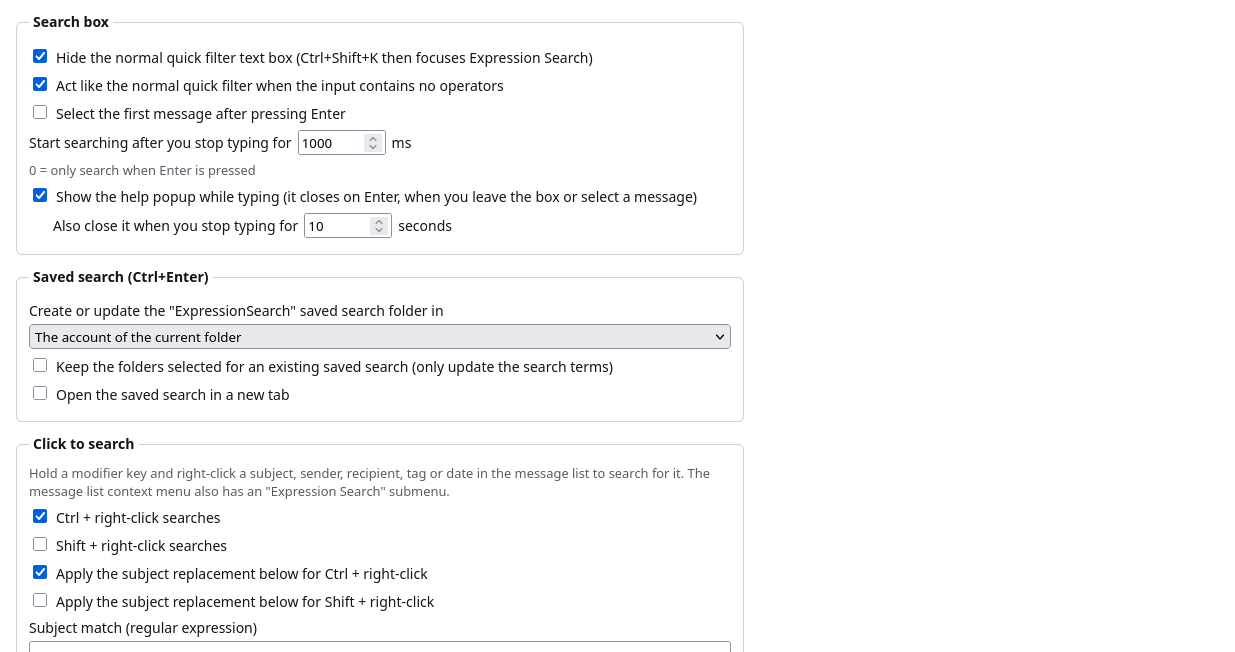
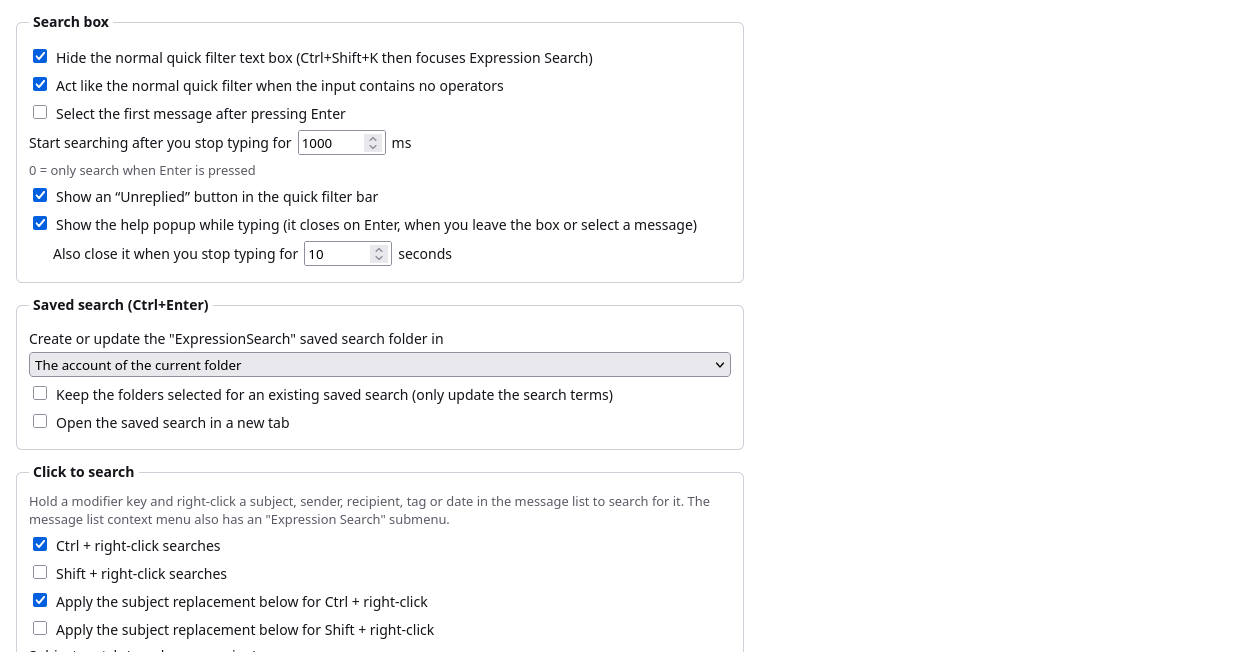
Add is:unreplied, an Unreplied button and the account: operator (5.1.0)
- is:unreplied / status:unreplied (and is:unstarred / is:unflagged).
- Unreplied toggle in the quick filter bar plus its entry in the quick filter
  menu of narrow windows; own quick filter definition, follows 'sticky';
  can be hidden in the options.
- account: / acc: operator and Account custom search criterion: account name
  or one of its addresses contains the text.
- Options page marks itself ready; the options test waits for it (fixes a
  race seen on slower CI runners).

Closes #5
Closes #6

Changed region(s): [[0.0, 0.2761, 0.5538, 0.6135], [0.0, 0.6442, 0.5846, 0.8896], [0.0308, 0.9202, 0.3385, 1.0]]

diff --git a/src/api/ExpressionSearch/implementation.js b/src/api/ExpressionSearch/implementation.js
@@ -45,6 +45,10 @@ ChromeUtils.defineESModuleGetters(lazy, {
 });
 
 const FILTER_NAME = "expressionSearchReloaded";
+const UNREPLIED_FILTER = "expressionSearchReloadedUnreplied";
+const UNREPLIED_BUTTON_ID = "esr-qfb-unreplied";
+const UNREPLIED_MENUITEM_ID = "esr-qfb-menu-unreplied";
+const OUR_FILTERS = [FILTER_NAME, UNREPLIED_FILTER];
 const CONTAINER_ID = "esr-search-container";
 const INPUT_ID = "esr-search-textbox";
 const HELP_ID = "esr-search-help";
@@ -215,6 +219,7 @@ class Pane {
       return;
     }
     try {
+      this.removeUnrepliedButton(false);
       this.box?.remove();
       this.normal?.classList.remove("esr-normal-hidden");
       this.win.windowUtils.removeSheetUsingURIString(
@@ -227,9 +232,11 @@ class Pane {
     // Drop our state from the quick filter so that nothing refers to the
     // filter definition after it has been removed.
     const qfb = this.qfb;
-    if (qfb?._filterer && FILTER_NAME in qfb._filterer.filterValues) {
+    if (qfb?._filterer && OUR_FILTERS.some(name => name in qfb._filterer.filterValues)) {
       const values = { ...qfb._filterer.filterValues };
-      delete values[FILTER_NAME];
+      for (const name of OUR_FILTERS) {
+        delete values[name];
+      }
       qfb._filterer = new this.win.QuickFilterState(null, {
         filterValues: values,
         visible: qfb._filterer.visible,
@@ -254,6 +261,88 @@ class Pane {
     if (!o.showHelp) {
       this.help.hidden = true;
     }
+    if (o.showUnrepliedButton) {
+      this.addUnrepliedButton();
+    } else {
+      this.removeUnrepliedButton(true);
+    }
+  }
+
+  // ---------------------------------------------------------------------------
+  // "Unreplied" quick filter button (and its entry in the quick filter menu
+  // that replaces the buttons in narrow windows)
+
+  addUnrepliedButton() {
+    const doc = this.doc;
+    const group = doc.querySelector("#quickFilterBarContainer .quickFilterButtons");
+    if (this.unrepliedButton || !group) {
+      return;
+    }
+    const C = this.controller;
+    const button = doc.createElement("button", { is: "toggle-button" });
+    button.id = UNREPLIED_BUTTON_ID;
+    button.className = "button collapsible-button icon-button check-button";
+    button.title = C.localize("unrepliedButtonTooltip");
+    const label = doc.createElement("span");
+    label.textContent = C.localize("unrepliedButtonLabel");
+    button.append(label);
+    group.append(button);
+    this.unrepliedButton = button;
+
+    const menu = doc.getElementById("quickFilterButtonsContext");
+    if (menu) {
+      const item = doc.createXULElement("menuitem");
+      item.id = UNREPLIED_MENUITEM_ID;
+      item.className = "quick-filter-menuitem";
+      item.setAttribute("type", "checkbox");
+      item.setAttribute("closemenu", "none");
+      // Thunderbird checks the item when this filter has a value.
+      item.setAttribute("value", UNREPLIED_FILTER);
+      item.setAttribute("label", C.localize("unrepliedButtonLabel"));
+      menu.append(item);
+      this.unrepliedMenuItem = item;
+    }
+
+    const set = on => {
+      const qfb = this.qfb;
+      if (!qfb) {
+        return;
+      }
+      qfb.filterer.setFilterValue(UNREPLIED_FILTER, on ? true : null);
+      button.pressed = on;
+      qfb.deferredUpdateSearch();
+    };
+    // toggle-button flips `pressed` in its own (earlier) click listener.
+    this.unrepliedListeners = [[button, "click", () => set(button.pressed)]];
+    if (this.unrepliedMenuItem) {
+      const item = this.unrepliedMenuItem;
+      this.unrepliedListeners.push([item, "command", () => set(item.hasAttribute("checked"))]);
+    }
+    for (const [target, type, handler] of this.unrepliedListeners) {
+      target.addEventListener(type, handler);
+    }
+    button.pressed = !!this.qfb?._filterer?.filterValues?.[UNREPLIED_FILTER];
+    this.qfb?.updateRovingTab?.();
+  }
+
+  removeUnrepliedButton(updateSearch) {
+    for (const [target, type, handler] of this.unrepliedListeners ?? []) {
+      target.removeEventListener(type, handler);
+    }
+    this.unrepliedListeners = [];
+    if (!this.unrepliedButton) {
+      return;
+    }
+    this.unrepliedButton.remove();
+    this.unrepliedMenuItem?.remove();
+    this.unrepliedButton = null;
+    this.unrepliedMenuItem = null;
+    const qfb = this.qfb;
+    if (updateSearch && qfb?._filterer?.filterValues?.[UNREPLIED_FILTER]) {
+      qfb.filterer.setFilterValue(UNREPLIED_FILTER, null);
+      qfb.updateSearch();
+    }
+    qfb?.updateRovingTab?.();
   }
 
   // ---------------------------------------------------------------------------
@@ -673,10 +762,13 @@ class Controller {
     }
 
     const QFM = lazy.QuickFilterManager;
-    if (QFM.filterDefsByName[FILTER_NAME]) {
-      QFM.killFilter(FILTER_NAME);
+    for (const name of OUR_FILTERS) {
+      if (QFM.filterDefsByName[name]) {
+        QFM.killFilter(name);
+      }
     }
     QFM.defineFilter(this.createFilterDefinition());
+    QFM.defineFilter(this.createUnrepliedFilterDefinition());
 
     ExtensionSupport.registerWindowListener(this.windowListenerId, {
       chromeURLs: [MESSENGER_URL],
@@ -704,8 +796,10 @@ class Controller {
       this.detachPane(win, true);
     }
     const QFM = lazy.QuickFilterManager;
-    if (QFM.filterDefsByName[FILTER_NAME]) {
-      QFM.killFilter(FILTER_NAME);
+    for (const name of OUR_FILTERS) {
+      if (QFM.filterDefsByName[name]) {
+        QFM.killFilter(name);
+      }
     }
     if (QFM.textBoxDomId == INPUT_ID) {
       QFM.textBoxDomId = NORMAL_TEXTBOX_ID;
@@ -808,6 +902,27 @@ class Controller {
 
   // ---------------------------------------------------------------------------
   // Quick filter integration
+
+  /** "Unreplied" button: messages without the Replied flag. */
+  createUnrepliedFilterDefinition() {
+    return {
+      name: UNREPLIED_FILTER,
+      domId: UNREPLIED_BUTTON_ID,
+      appendTerms: (termCreator, terms) => {
+        this.buildTerms(
+          termCreator,
+          [[{ attrib: "MsgStatus", op: "Isnt", valueType: "status", value: "Replied" }]],
+          terms
+        );
+      },
+      // Kept on folder change only if "sticky" is active, like Unread.
+      propagateState: (old, sticky) => (sticky && old ? true : null),
+      onCommand: state => [state, false],
+      reflectInDOM: (node, value) => {
+        node.pressed = !!value;
+      },
+    };
+  }
 
   createFilterDefinition() {
     return {

diff --git a/src/help/help.html b/src/help/help.html
@@ -62,6 +62,7 @@
     <tr><td><code>tonocc</code></td><td>tn</td><td>To (not Cc) contains the text</td><td><code>tn:bill</code></td></tr>
     <tr><td><code>cc</code></td><td>c</td><td>Cc contains the text</td><td><code>cc:tom</code></td></tr>
     <tr><td><code>bcc</code></td><td>bc</td><td>Bcc contains the text (only known for messages you sent)</td><td><code>bcc:riddle</code></td></tr>
+    <tr><td><code>account</code></td><td>acc</td><td>the account name or one of its e-mail addresses contains the text; useful in unified folders and saved searches over several accounts</td><td><code>acc:work</code>, <code>-acc:private</code></td></tr>
     <tr><td><code>fromto</code></td><td>ft, ftc, fromtocc, alladdresses</td><td>From, To, Cc or Bcc contains the text</td><td><code>ft:tom</code></td></tr>
     <tr><td><code>only</code></td><td>o</td><td>the given people are the only To recipients; separate several with commas</td><td><code>only:tom</code>, <code>only:(tom,jerry)</code></td></tr>
     <tr><td><code>subject</code></td><td>s</td><td>Subject contains the text</td><td><code>s:electric bill</code></td></tr>
@@ -75,7 +76,7 @@
     <tr><td><code>headerre</code></td><td>h, hr</td><td>a header exists / matches a regular expression; see <a href="#limitations">limitations</a></td><td><code>h:list-id</code>, <code>h:List-Id=/all-test/i</code></td></tr>
     <tr><td><code>attachment</code></td><td>a</td><td><code>yes</code>/<code>y</code>/<code>1</code>: has an attachment, <code>no</code>/<code>n</code>/<code>0</code>: has none; anything else works like <code>filename</code></td><td><code>a:yes</code>, <code>a:pdf</code></td></tr>
     <tr><td><code>filename</code></td><td>fi, fn, file</td><td>an attachment name or MIME type contains the text (offline messages only)</td><td><code>fi:invoice.pdf</code>, <code>fn:msword</code></td></tr>
-    <tr><td><code>status</code></td><td>is, i, u</td><td>status: read, unread, replied, forwarded, starred (marked, flagged), new, deleted, attachment</td><td><code>is:unread</code>, <code>-is:replied</code></td></tr>
+    <tr><td><code>status</code></td><td>is, i, u</td><td>status: read, unread, replied, unreplied, forwarded, starred (marked, flagged), unstarred, new, deleted, attachment</td><td><code>is:unread</code>, <code>is:unreplied</code></td></tr>
     <tr><td><code>tag</code></td><td>l, label</td><td>tag name contains the text, or the <var>n</var>-th tag (<code>#2</code>); <code>na</code> means no tag</td><td><code>tag:important</code>, <code>tag:na</code></td></tr>
     <tr><td><code>before</code> / <code>after</code></td><td>be / af</td><td>sent before/after a day, or a time of day on any day</td><td><code>af:2024/03/01</code>, <code>af:(9:00 -17:00)</code></td></tr>
     <tr><td><code>date</code></td><td>d</td><td>the date (<code>yyyy/mm/dd hh:mm:ss</code> or your locale's format) contains the text</td><td><code>d:2024/03</code>, <code>d:" 13:"</code></td></tr>
@@ -104,7 +105,8 @@
   <li>Words without operators form a phrase: <code>s:electric bill</code> searches for “electric bill”.</li>
   <li>Double quotes make text literal: <code>s:"this or that"</code>.</li>
   <li>The expression is combined with the other quick filter buttons (Unread, Starred, Tags, …) and with the
-    normal text filter (if shown); all of them must match.</li>
+    normal text filter (if shown); all of them must match. The add-on adds an <strong>Unreplied</strong> button
+    there too (it can be hidden in the options).</li>
 </ul>
 <p>Any mix of <code>and</code>, <code>or</code> and <code>-</code> is evaluated correctly in the message list
   (it is converted to the form Thunderbird's search engine understands). Extremely large combinations are rejected
@@ -157,7 +159,7 @@
 <p>The add-on also adds these search criteria to Thunderbird's filter editor, the Search Messages dialog and
   saved search properties: <em>Bcc, To Somebody Only, Subject (RegEx), Subject (Long), Header (RegEx),
   From (RegEx), Recipients (To/Cc/Bcc RegEx), Time (Every Day), Date Match, Attachment Name/Type,
-  Body (RegEx)</em>. Filters that use them need the add-on to be enabled.</p>
+  Body (RegEx), Account</em>. Filters that use them need the add-on to be enabled.</p>
 </section>
 
 <section id="limitations">

diff --git a/src/api/ExpressionSearch/terms.js b/src/api/ExpressionSearch/terms.js
@@ -108,6 +108,32 @@ var ExpressionSearchTerms = (function () {
   }
 
   /**
+   * Text that identifies the account of a folder's server: the account name
+   * plus the addresses and names of its identities, lower-cased. Cached per
+   * server for a short time (searches call this for every message).
+   */
+  const accountTextCache = new WeakMap();
+  function accountText(server) {
+    if (!server) {
+      return "";
+    }
+    const now = Date.now();
+    const cached = accountTextCache.get(server);
+    if (cached && now - cached.time < 30000) {
+      return cached.text;
+    }
+    const parts = [server.prettyName];
+    try {
+      for (const identity of MailServices.accounts.getIdentitiesForServer(server)) {
+        parts.push(identity.email, identity.fullName);
+      }
+    } catch (e) {}
+    const text = parts.filter(Boolean).join("\n").toLowerCase();
+    accountTextCache.set(server, { text, time: now });
+    return text;
+  }
+
+  /**
    * Statistics of the last body search, shown to the user: messages without
    * an offline copy cannot be searched by body terms.
    */
@@ -411,6 +437,11 @@ var ExpressionSearchTerms = (function () {
         const result = `${date} ${time}`.includes(value) || locale.includes(value);
         return apply(result, op, Op.DoesntContain);
       }),
+
+      // "acc:work": the account name or one of its addresses contains "work".
+      account: term(localize("term_account"), CONTAINS_OPS, (hdr, value, op) =>
+        apply(accountText(hdr.folder?.server).includes(value.toLowerCase()), op, Op.DoesntContain)
+      ),
 
       attachmentNameOrType: bodyTerm(
         localize("term_attachmentNameOrType"),

diff --git a/src/shared/parser.js b/src/shared/parser.js
@@ -62,6 +62,7 @@
     status: ["u", "is", "i"],
     all: ["al"],
     fromto: ["ft", "ftc", "fromtocc", "alladdresses"],
+    account: ["acc"],
     gloda: ["g"],
   };
 
@@ -480,6 +481,7 @@
     bodyre: "expressionsearch#bodyRegex",
     fromre: "expressionsearch#fromRegex",
     tore: "expressionsearch#toRegex",
+    account: "expressionsearch#account",
   };
 
   const HEADER_ATTRIBS = {
@@ -621,6 +623,8 @@
   function parseStatus(value) {
     const v = value.trim();
     const table = [
+      [/^unrep/i, "Replied", true],
+      [/^un(star|fl)/i, "Marked", true],
       [/^unr/i, "Read", true],
       [/^rep/i, "Replied", false],
       [/^rea/i, "Read", false],
@@ -676,6 +680,7 @@
       case "simple":
       case "filename":
       case "date":
+      case "account":
         return {
           ...d,
           attrib: "Custom",

diff --git a/src/options/options.html b/src/options/options.html
@@ -21,6 +21,7 @@
         <span data-i18n="unitMs"></span>
       </label>
       <p class="hint" data-i18n="opt_searchTimeoutHint"></p>
+      <label class="check"><input type="checkbox" name="showUnrepliedButton" /> <span data-i18n="opt_showUnrepliedButton"></span></label>
       <label class="check"><input type="checkbox" name="showHelp" /> <span data-i18n="opt_showHelp"></span></label>
       <label class="row indent">
         <span data-i18n="opt_helpShowSeconds"></span>

diff --git a/src/shared/defaults.js b/src/shared/defaults.js
@@ -27,6 +27,7 @@
     selectFirstOnEnter: [false, "boolean"],
     showHelp: [true, "boolean"],
     helpShowSeconds: [10, "integer", 0, 3600],
+    showUnrepliedButton: [true, "boolean"],
     // Saved search (Ctrl+Enter)
     virtualFolderParent: ["", "string"],
     reuseExistingFolder: [false, "boolean"],

diff --git a/src/options/options.js b/src/options/options.js
@@ -163,6 +163,8 @@ async function init() {
   document.getElementById("openHelp").addEventListener("click", () => {
     messenger.tabs.create({ url: "/help/help.html" });
   });
+  // Rendered and listening (used by the tests).
+  document.documentElement.dataset.ready = "true";
 }
 
 init();

diff --git a/src/api/ExpressionSearch/expression-search.css b/src/api/ExpressionSearch/expression-search.css
@@ -103,6 +103,10 @@
   font-weight: bold;
 }
 
+#esr-qfb-unreplied {
+  background-image: var(--icon-reply);
+}
+
 #qfb-qs-textbox.esr-normal-hidden {
   display: none !important;
 }

diff --git a/docs/atn-listing.md b/docs/atn-listing.md
@@ -36,14 +36,15 @@ Search your mail the way you think: type an <b>expression</b> into the quick fil
 
 <b>Features</b>
 <ul>
-<li>28 operators: from, to, cc, bcc, only, subject, body, all, attachment, filename, tag, status (is:unread, is:starred, …), before/after (dates and time of day), date, older_than/newer_than, size/smaller, header — with short aliases (f:, t:, s:, a:, …)</li>
+<li>29 operators: from, to, cc, bcc, only, subject, body, all, attachment, filename, tag, account, status (is:unread, is:unreplied, is:starred, …), before/after (dates and time of day), date, older_than/newer_than, size/smaller, header — with short aliases (f:, t:, s:, a:, …)</li>
 <li><b>and</b>, <b>or</b>, <b>-</b> (not), parentheses and quotes, evaluated correctly in any combination</li>
 <li>Regular expressions for subject, sender, recipients, headers and body</li>
 <li>Works together with Thunderbird's Unread / Starred / Contact / Tags / Attachment buttons; Ctrl+Shift+K focuses the box</li>
 <li>Live help while you type: explains the operator and shows how the expression was understood</li>
 <li><b>Click to search</b>: Ctrl+right-click a subject, sender, recipient, tag or date — or use the "Expression Search" context menu</li>
 <li><b>Ctrl+Enter</b> turns the expression into a saved search across the whole account; <b>Shift+Enter</b> runs a global search</li>
-<li>Adds 11 criteria (Subject/From/Recipients/Body/Header RegEx, Bcc, attachment name, time of day, …) to message filters and the Search Messages dialog</li>
+<li>An "Unreplied" button in the quick filter bar</li>
+<li>Adds 12 criteria (Subject/From/Recipients/Body/Header RegEx, Bcc, attachment name, time of day, account, …) to message filters and the Search Messages dialog</li>
 <li>A built-in calculator: <code>3*(4+5)</code> + Enter</li>
 </ul>
 <b>Privacy</b>: no network access, no data collection. Everything runs inside Thunderbird; settings stay in your profile.

diff --git a/README.md b/README.md
@@ -28,14 +28,15 @@ for current Thunderbird releases.
 * Operators for addresses, subject, body, dates, age, size, status, tags and attachments, with regular-expression
   variants: `from:`, `to:`, `cc:`, `bcc:`, `only:`, `subject:`, `simple:`, `regex:`, `body:`, `bodyre:`,
   `headerre:`, `a:`, `filename:`, `is:`, `tag:`, `before:`, `after:`, `date:`, `older_than:`, `newer_than:`,
-  `size:`, `smaller:` …
+  `size:`, `smaller:`, `account:` …
 * `and`, `or`, `-` (not), parentheses and quotes. Any combination is evaluated correctly.
 * **Enter** searches now, **Ctrl+Enter** creates a saved search over the whole account, **Shift+Enter** runs a
   global (gloda) search, and arithmetic like `3*(4+5)` is calculated.
 * **Click to search:** Ctrl+right-click a subject, sender, recipient, tag or date in the message list, or use the
   *Expression Search* context submenu.
-* Eleven extra search criteria for message filters, the Search Messages dialog and saved searches. They include
-  Subject/From/Recipients/Body/Header RegEx, Bcc, attachment name or type, and time of day.
+* An *Unreplied* button in the quick filter bar, and `is:unreplied`.
+* Twelve extra search criteria for message filters, the Search Messages dialog and saved searches. They include
+  Subject/From/Recipients/Body/Header RegEx, Bcc, attachment name or type, time of day and account.
 * No network access and no data collection. See [SECURITY.md](SECURITY.md).
 
 ## Installation

diff --git a/CHANGELOG.md b/CHANGELOG.md
@@ -2,6 +2,16 @@
 
 All notable changes are documented here. Versions follow [semantic versioning](https://semver.org/).
 
+## 5.1.0 – 2026-10-04
+
+### Added
+* `is:unreplied` (also `status:unreplied`) and an **Unreplied** button in the quick filter bar, with an entry in the
+  quick filter menu of narrow windows; the button can be hidden in the options (#5). `is:unstarred` /
+  `is:unflagged` as well.
+* `account:` / `acc:` operator: the account name or one of its addresses contains the text, e.g. `acc:work` in a
+  unified folder or a saved search across accounts (#6). Also available as the *Account* criterion in message
+  filters and the Search Messages dialog.
+
 ## 5.0.2 – 2026-10-04
 
 ### Changed
